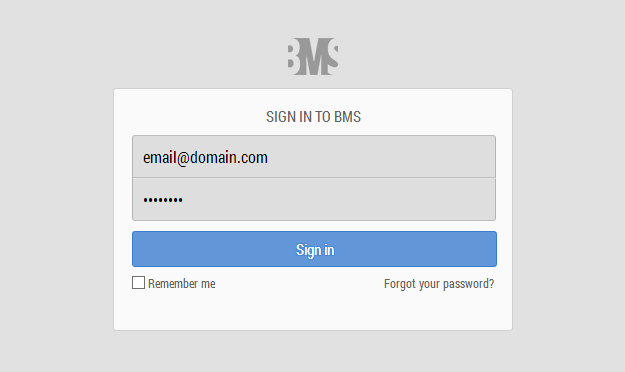
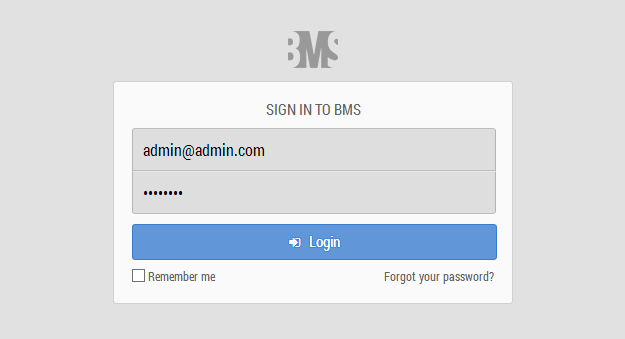
Login Image

diff --git a/docs/core-logging-in-and-out.md b/docs/core-logging-in-and-out.md
@@ -18,7 +18,7 @@ http://bms.yourcompanywebaddress.com
   <h5>For further details on accessing your environment contact <a id="Intercom" class="noRedirect" href="mailto:c772676240e0bea1fa03f8bbf21edc26778efc65@incoming.intercom.io">support</a> or your BMS administrator.</h5>
 </div>
 
-After navigating to BMS in your browser, assuming you're not already logged in, you should find yourself at the login screen. Here you just need to enter your email address and password, then press 'Sign in'.
+After navigating to BMS in your browser, assuming you're not already logged in, you should find yourself at the login screen. Here you just need to enter your email address and password, then press 'Login'.
 
 ![Login Page]({{ site.baseurl }}/img/crm-login.jpg)
 
